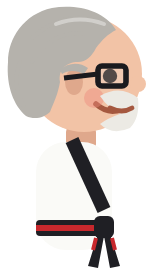
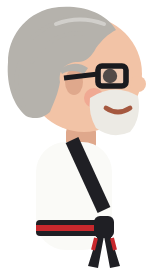
Mr. Master Krantz's side view: the smile stays inside his goatee
Claude-Session: https://claude.ai/code/session_01BrGLWcTLbFgPLYzVmKCwDF

Changed region(s): [[0.5789, 0.3188, 0.8947, 0.4928], [0.8684, 0.4348, 0.8947, 0.4638]]

diff --git a/src/people.py b/src/people.py
@@ -321,8 +321,9 @@ def _beard(look, view):
             return (f'<path d="M-3,-71 Q-2,-79 9,-77 Q20,-79 21,-71 Q21,-62 17,-58 Q9,-53 1,-58 Q-3,-62 -3,-71 Z M3,-70 Q9,-65 15,-70 Q14,-63 9,-62 Q4,-63 3,-70 Z" fill="{c}" fill-rule="evenodd"/>'
                     f'<path d="M4,-70 Q9,-66 14,-70" fill="none" stroke="{mouth}" stroke-width="2.4" stroke-linecap="round"/>')
         if view == 'side':
-            return (f'<path d="M12,-75 Q22,-81 31,-74 Q32,-64 27,-59 Q18,-55 12,-61 Q16,-64 22,-66 Q16,-69 12,-75 Z" fill="{c}"/>'
-                    f'<path d="M17,-69 Q23,-66 28,-69" fill="none" stroke="{mouth}" stroke-width="2.4" stroke-linecap="round"/>')
+            # (covers the mouth's whole curve, so the smile drawn on top never pokes out past the beard)
+            return (f'<path d="M7,-74 Q19,-82 31,-75 Q33,-64 27,-57 Q18,-53 10,-59 Q6,-66 7,-74 Z" fill="{c}"/>'
+                    f'<path d="M15,-69 Q21,-65 27,-69" fill="none" stroke="{mouth}" stroke-width="2.4" stroke-linecap="round"/>')
         return ''
     if kind == 'full':     # Master Schindewolf: a short full beard and mustache, grey through the brown
         if view == 'front':

diff --git a/docs/CHANGES.md b/docs/CHANGES.md
@@ -1011,3 +1011,4 @@ Nico's grandparents, from family photos (reference only, not in the repo).
 - **The class:** Mr. Master Krantz teaches it (was "Sensei"). The shout is "Kihap!" (Tang Soo Do's word, not "Kiai").
 - **Glasses for everyone:** see-through lenses (the user: "I would like to be able to see eyes behind glasses"). Poppop, Nonna, Yia-Yia and the townspeople with glasses were re-exported.
 - **Still to confirm:** the belt colours are still the generic eight (white to black). If Litchfield uses different ones, it's a one-line change in `karate.ts`.
+- **Fixed (the user):** "Mr master Krantz side view is a little weird. The mouth shouldn't go outside the goatee." The side-view goatee now covers the whole curve of the mouth, and a shorter smile is drawn inside it.
